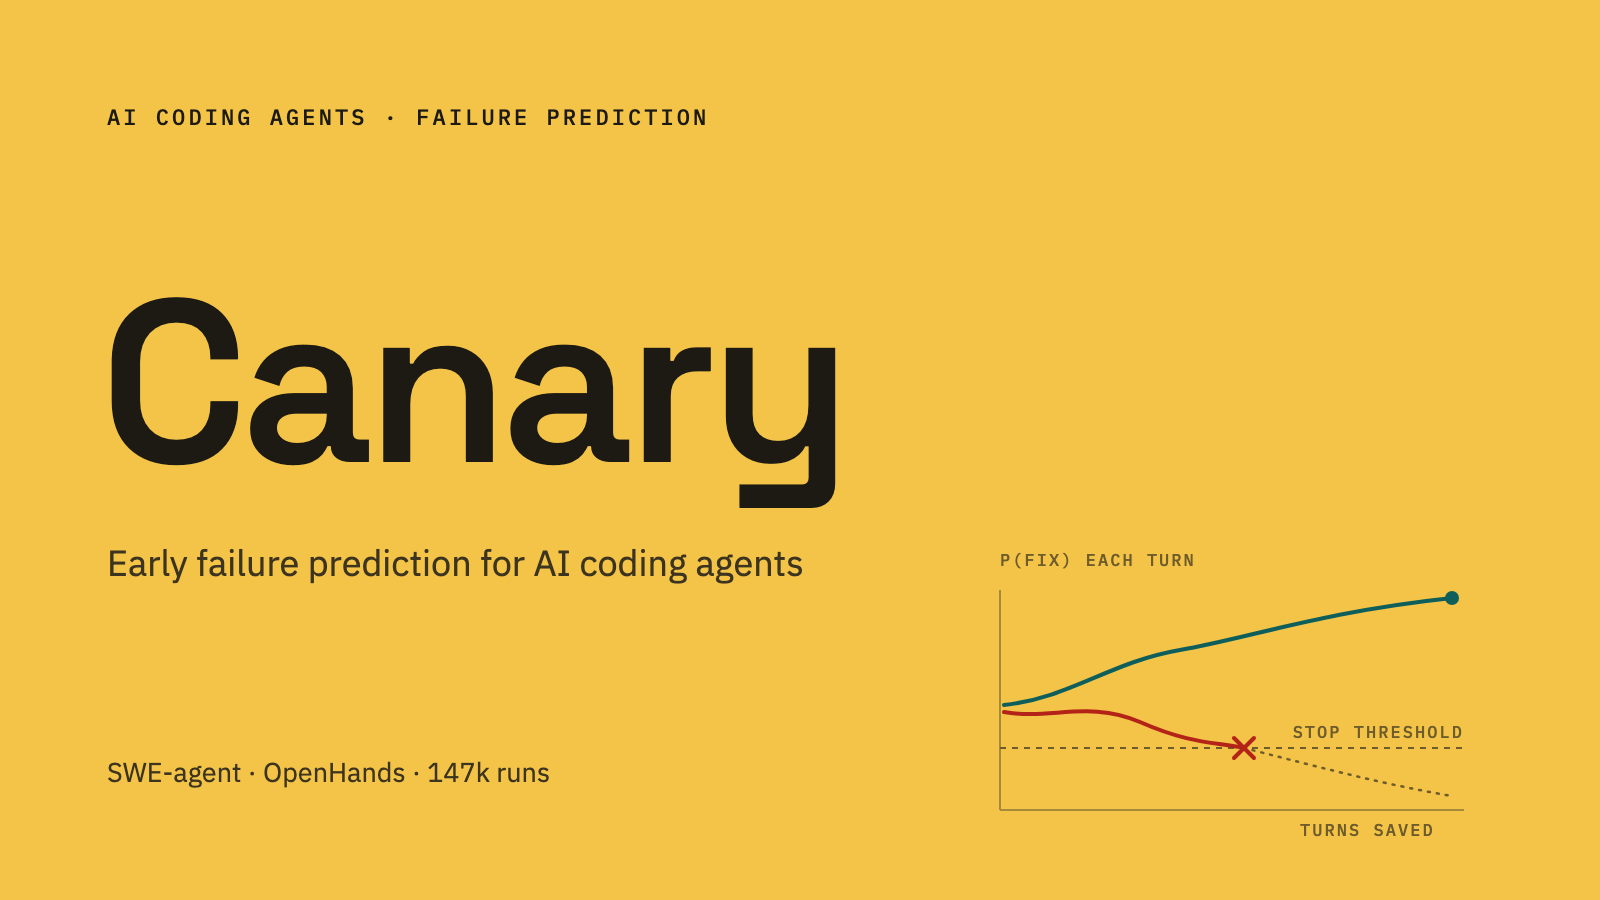
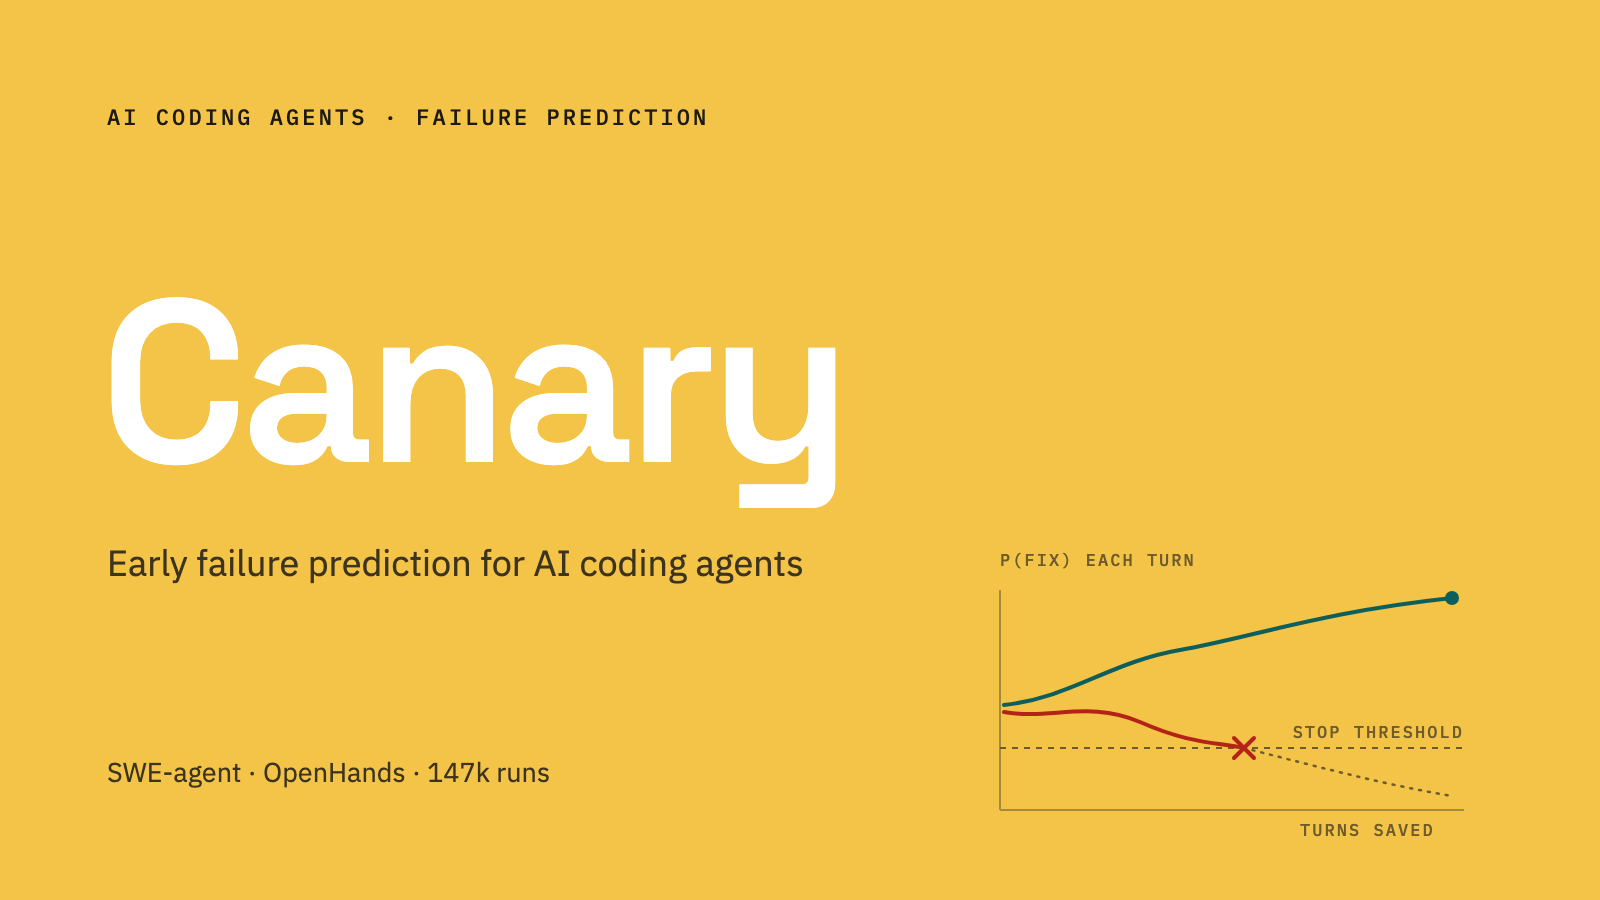
Canary cover: white title

Changed region(s): [[0.0625, 0.3111, 0.5312, 0.5911]]

diff --git a/notes/covers/canary.html b/notes/covers/canary.html
@@ -27,7 +27,7 @@
 </head>
 <body>
   <div class="eyebrow" style="color: var(--yellow)">AI CODING AGENTS · FAILURE PREDICTION</div>
-  <h1>Canary</h1>
+  <h1 style="color: #ffffff">Canary</h1>
   <div class="sub">Early failure prediction for AI coding agents</div>
   <div class="foot">SWE-agent · OpenHands · 147k runs</div>
 
